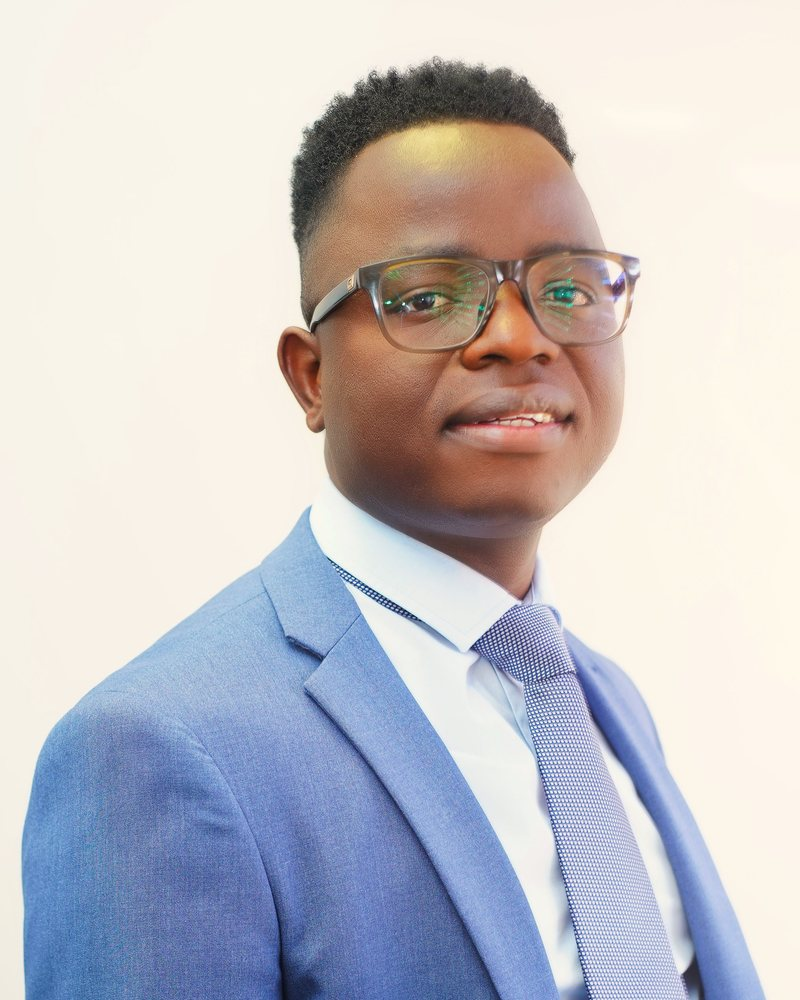
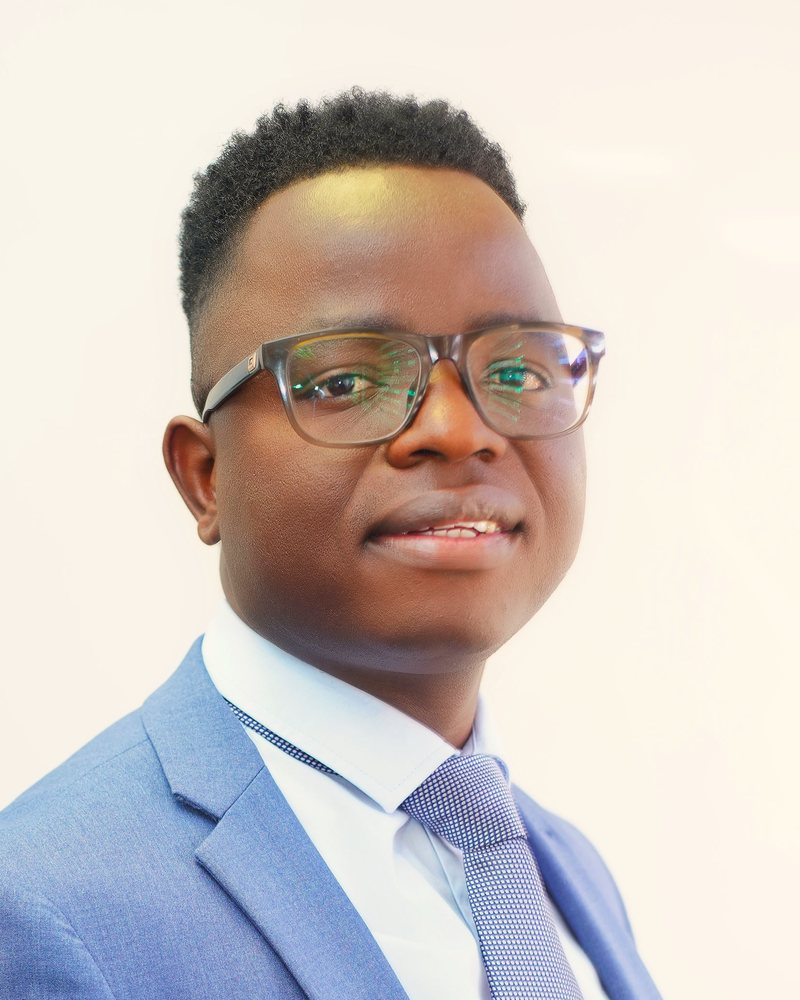
Fix phone header overlap and team photo crops
Claude-Session: https://claude.ai/code/session_01Lns7KxegDhs8DDP56GkdJR

diff --git a/app/globals.css b/app/globals.css
@@ -87,7 +87,7 @@ h1, h2, h3, h4 { line-height: 1.08; letter-spacing: -0.01em; }
 .brand b { font-weight: 900; font-size: .82rem; line-height: 1.1; letter-spacing: .03em; white-space: nowrap; }
 .brand .ri { display: block; font-size: .62rem; letter-spacing: .12em; color: #fff; }
 .brand small { display: block; font-size: .62rem; letter-spacing: .14em; color: var(--gold); font-weight: 700; }
-.hdr-r { display: flex; align-items: center; gap: 10px; }
+.hdr-r { display: flex; align-items: center; gap: 8px; flex: none; }
 .pill { background: var(--gold); color: var(--navy); font-weight: 700; font-size: .78rem; padding: 9px 10px; text-decoration: none; white-space: nowrap; }
 .burger { width: 44px; height: 44px; background: none; border: 0; cursor: pointer; display: flex; align-items: center; justify-content: center; }
 .burger span, .burger span::before, .burger span::after { display: block; width: 22px; height: 2px; background: #fff; position: relative; content: ""; transition: transform .2s ease; }
@@ -149,8 +149,8 @@ h1, h2, h3, h4 { line-height: 1.08; letter-spacing: -0.01em; }
 
 /* team */
 .team { display: grid; grid-template-columns: 1fr; gap: 18px; }
-.person { background: #fff; display: grid; grid-template-columns: 112px 1fr; gap: 0; align-items: stretch; }
-.person .pic { position: relative; min-height: 150px; background: #e6e8ee; }
+.person { background: #fff; display: grid; grid-template-columns: 128px 1fr; gap: 0; align-items: start; }
+.person .pic { position: relative; aspect-ratio: 4 / 5; background: #e6e8ee; }
 .person .pic img { object-fit: cover; object-position: top center; }
 .person .body { padding: 14px 16px; border-top: 3px solid var(--gold); }
 .person h3 { font-size: 1.1rem; margin-bottom: 2px; }
@@ -209,6 +209,14 @@ h1, h2, h3, h4 { line-height: 1.08; letter-spacing: -0.01em; }
 /* split helpers */
 .split { display: grid; gap: 24px; }
 .stack > * + * { margin-top: 14px; }
+
+@media (max-width: 479px) {
+  .hdr .wrap { padding: 0 12px; }
+  .brand { gap: 7px; }
+  .brand b { font-size: .72rem; letter-spacing: 0; }
+  .brand small { font-size: .56rem; letter-spacing: .08em; }
+  .pill { font-size: .72rem; padding: 8px; }
+}
 
 @media (min-width: 760px) {
   .wrap { padding: 0 32px; }

diff --git a/app/page.tsx b/app/page.tsx
@@ -57,7 +57,7 @@ export default function Home() {
               </Link>
             </div>
             <div style={{ position: "relative", minHeight: 260 }}>
-              <Image src="/images/firm/director-logo.jpg" alt="Director Rabelani Nemadzivhanani at the firm's reception" fill sizes="(min-width: 760px) 33vw, 100vw" style={{ objectFit: "cover", objectPosition: "center 25%" }} />
+              <Image src="/images/firm/director-logo.jpg" alt="Director Rabelani Nemadzivhanani at the firm's reception" fill sizes="(min-width: 760px) 33vw, 100vw" style={{ objectFit: "cover", objectPosition: "center 8%" }} />
             </div>
             <div className="deep" style={{ padding: "24px 20px" }}>
               <div className="lbl" style={{ color: "var(--gold)" }}>Already a client?</div>
